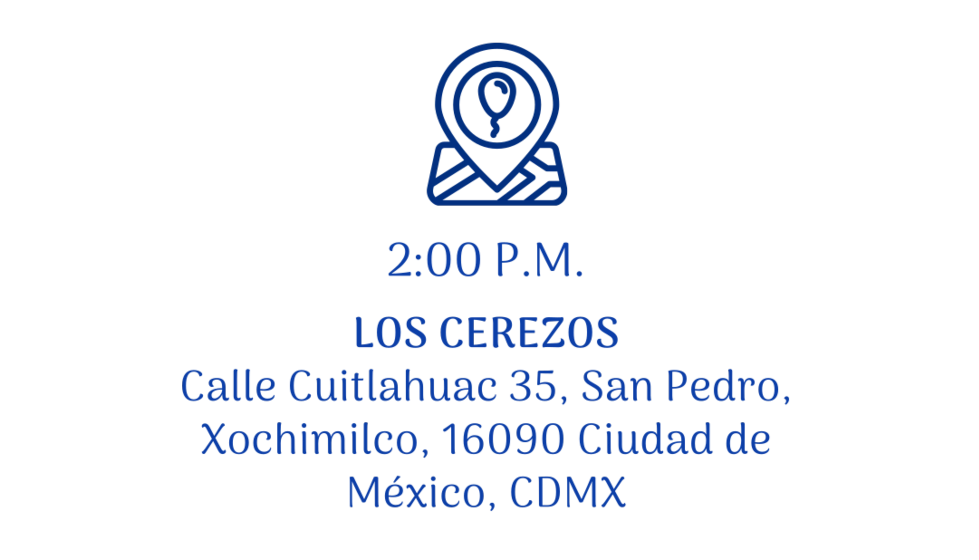
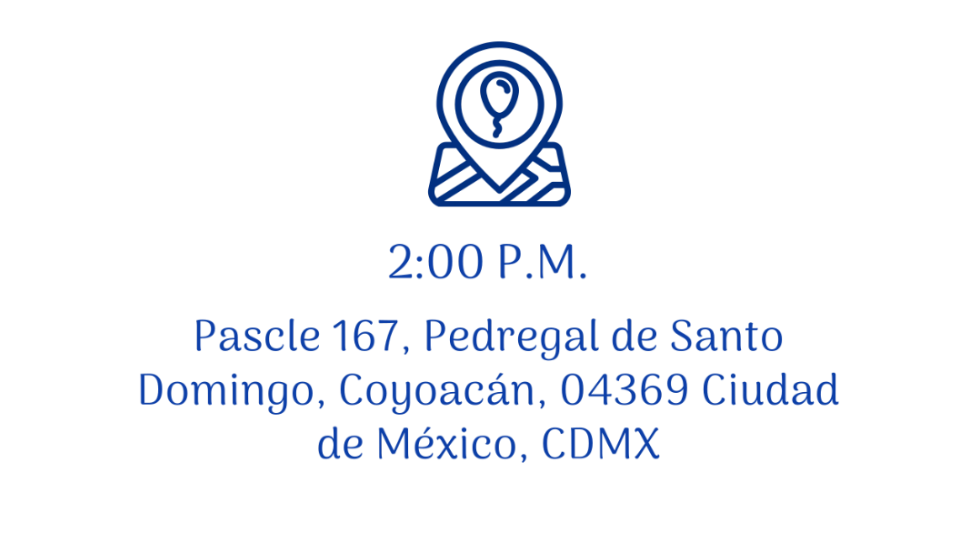
Update location

diff --git a/index.html b/index.html
@@ -185,7 +185,7 @@
               src: "./images/mapbutton2.webp",
               alt: "Iglesia",
               variant: "wideText",
-              onClick: () => window.open('https://maps.app.goo.gl/GZYgFgQefJKKkSxa6', '_blank')
+              onClick: () => window.open('https://maps.app.goo.gl/gyfVaJRXE2jEm3uKA', '_blank')
             }
           ]
         }